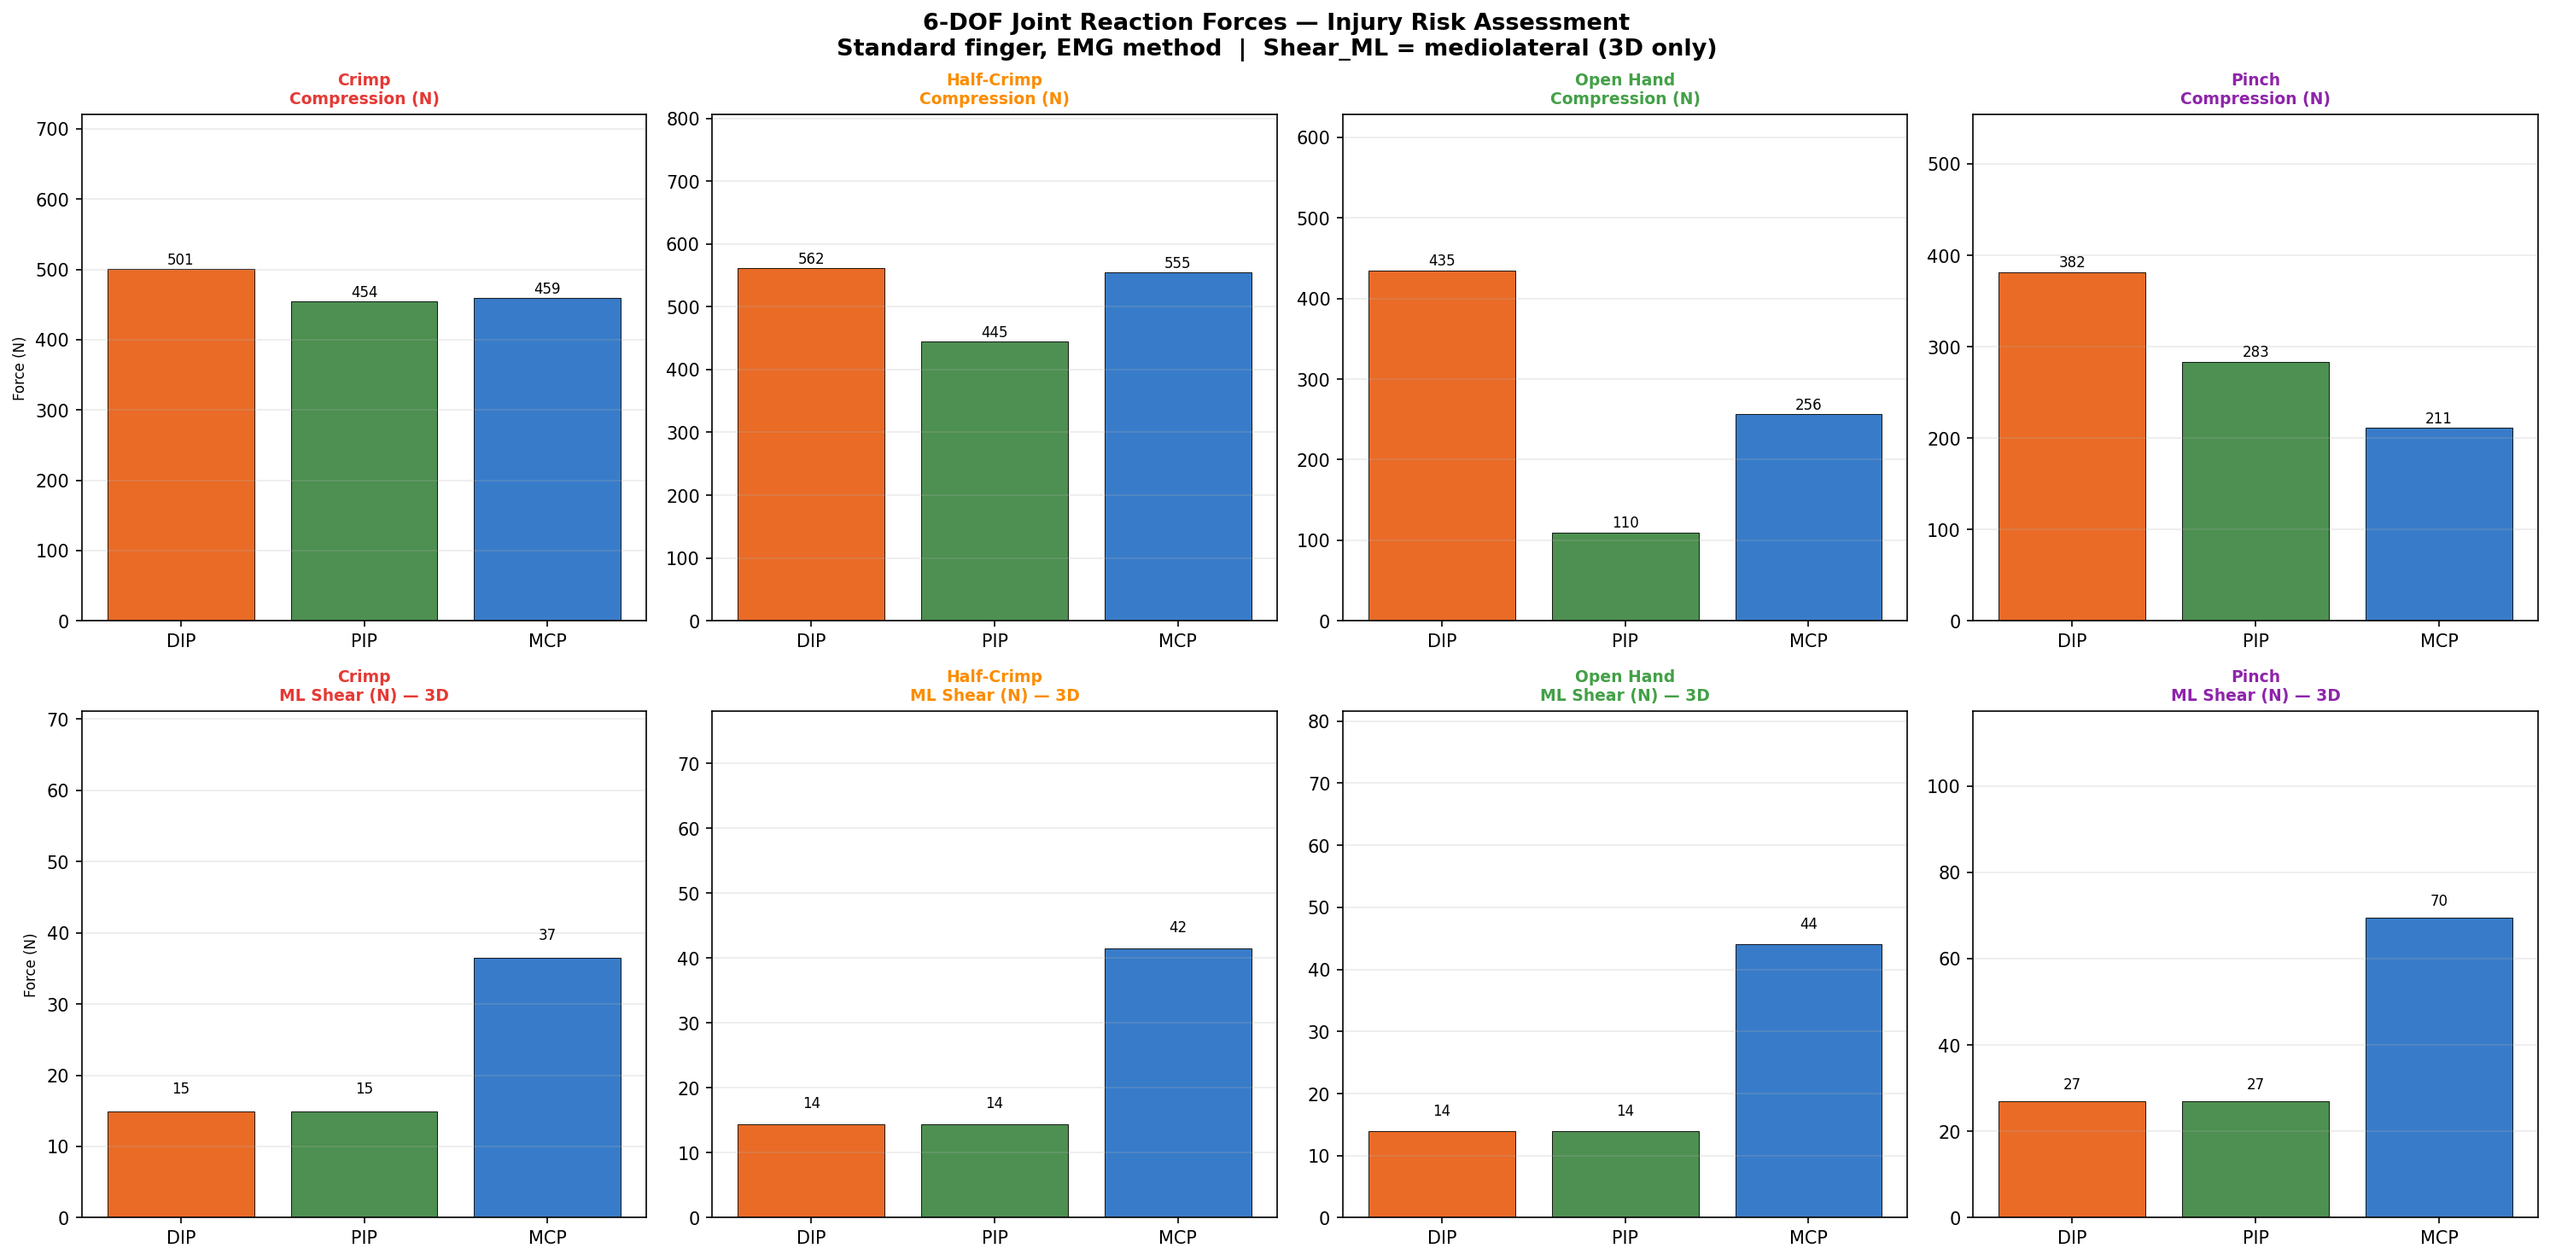
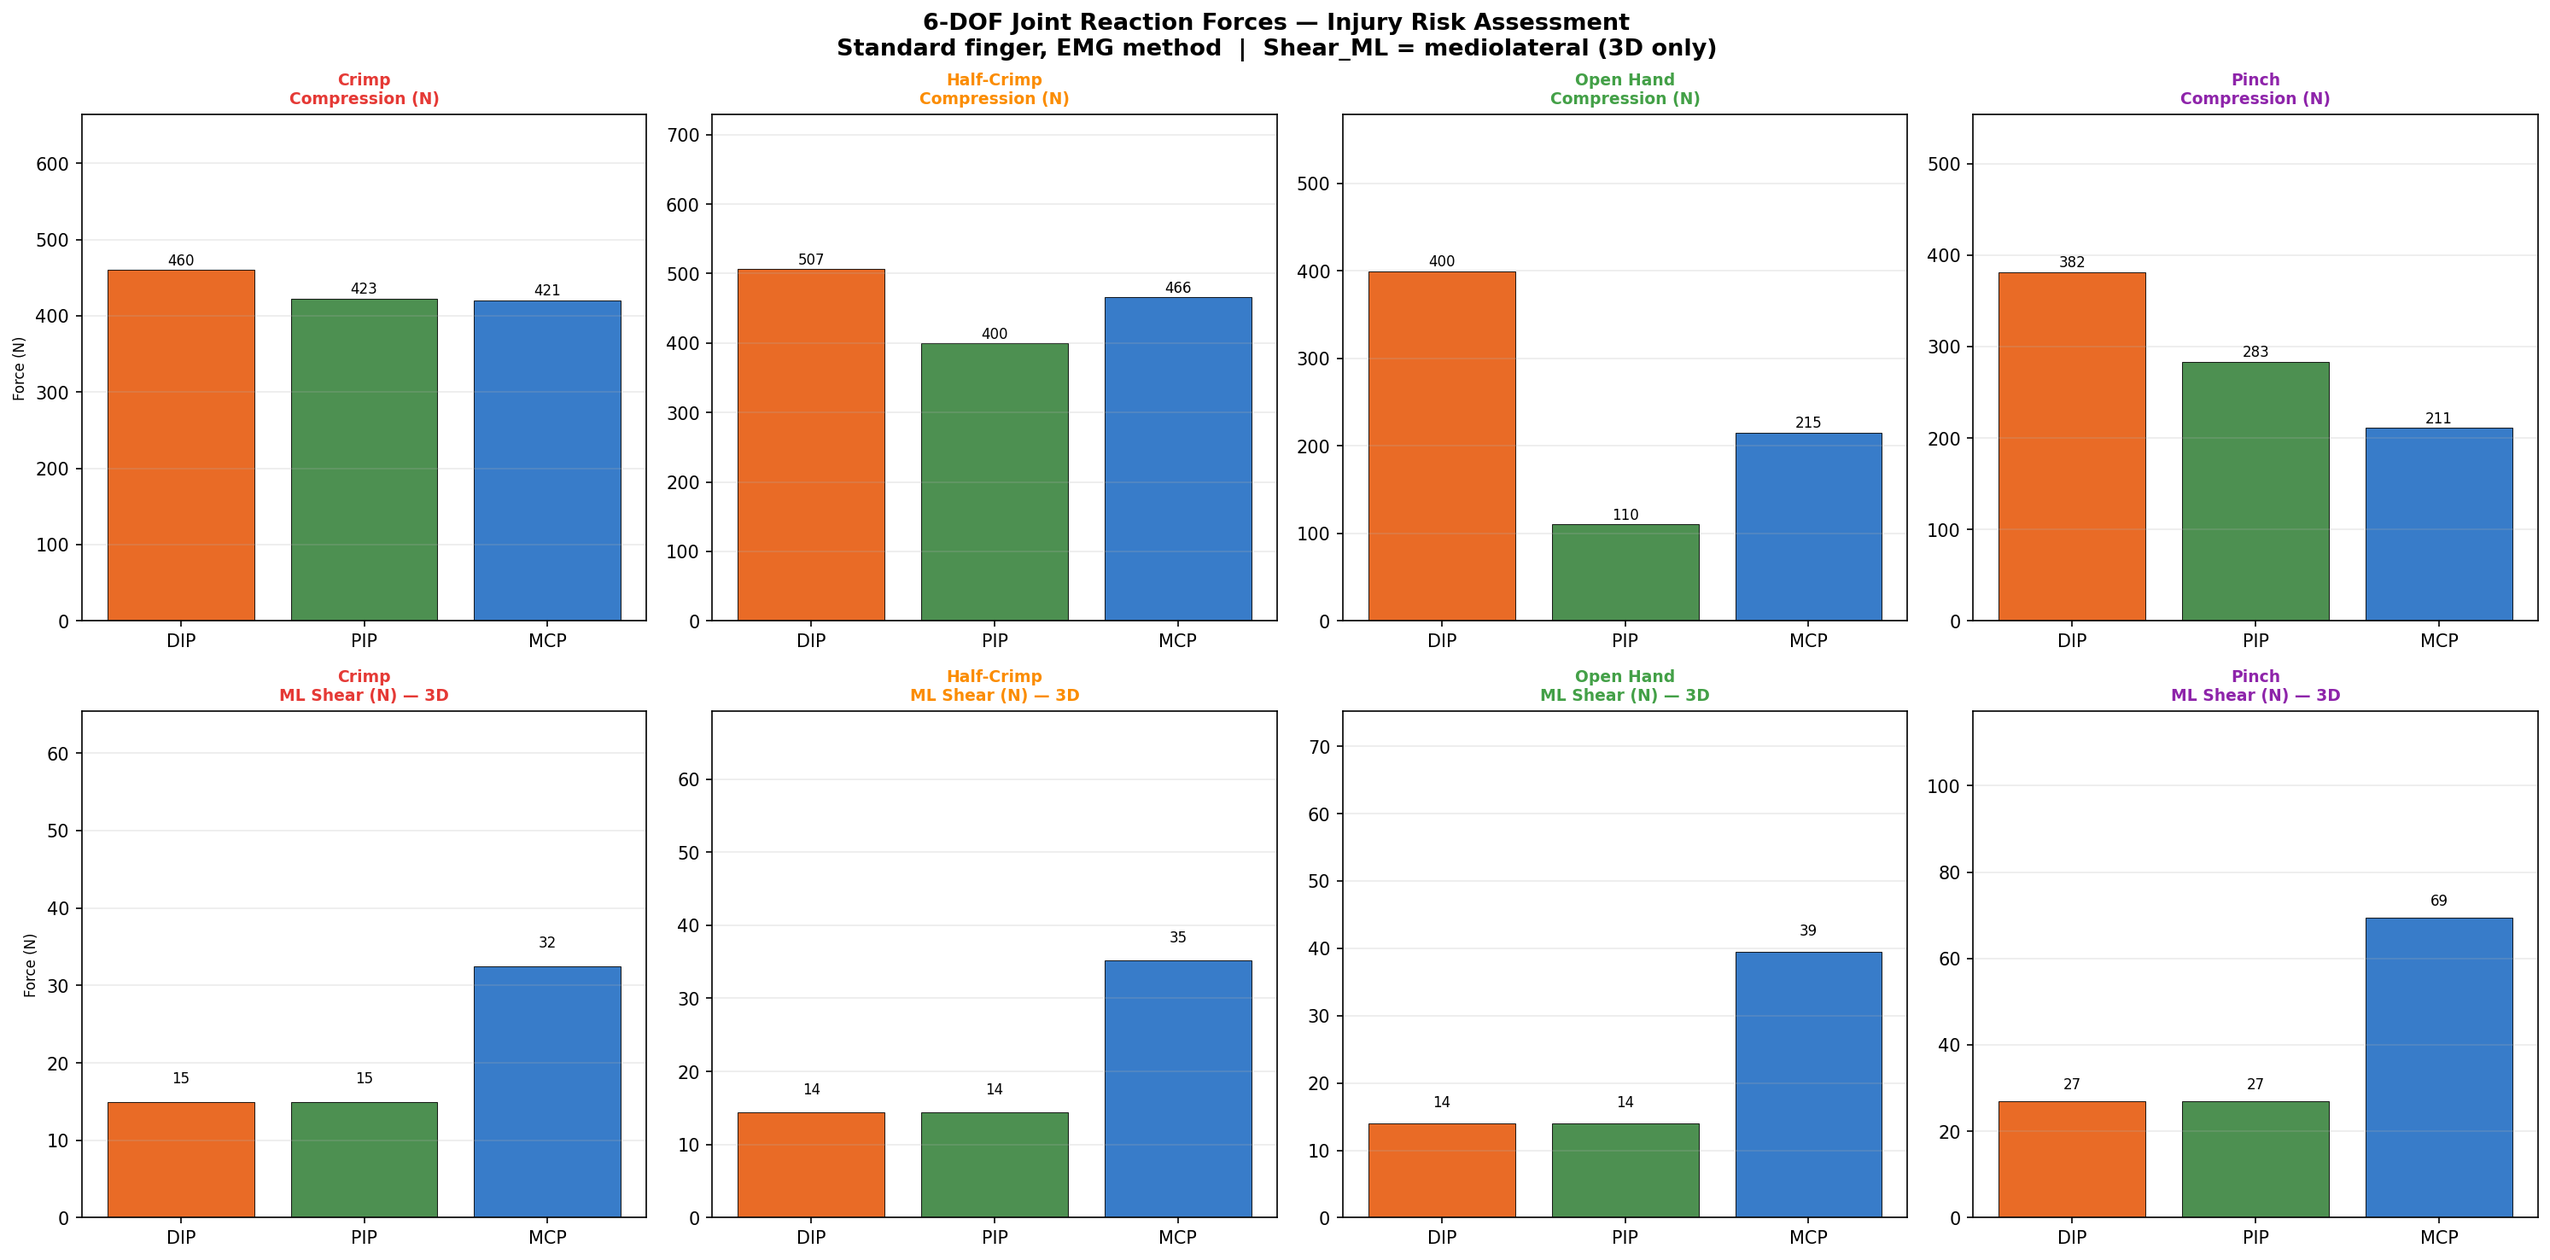
docs: Enhance README with detailed figure descriptions and scientific significance, and add a script to analyze peak FDP force differences for finger phenotypes.

diff --git a/climbing_finger_3d.py b/climbing_finger_3d.py
@@ -762,8 +762,14 @@ def run_simulation():
     gcols  = ['#2196F3', '#4CAF50', '#F44336']
     METHODS = list(METHOD_LABELS.keys())
 
-    # Pre-compute all results
-    all_res = {k: [solve_all_methods(GRIPS[k], g, F_ext) for g in geoms] for k in GRIPS}
+    # Pre-compute all results with the configured default contact geometry (e.g. 10mm hold)
+    # Crucially: use beta_wall=0.0 (vertical wall) for these static baseline evaluations!
+    # If evaluated at beta=45 (overhang), static open hand / pinch grips mathematically 
+    # fail equilibrium (negative MCP moments) and clip to 0 force. The equilibrium 
+    # posture finder in Fig 7 & 8 handles overhangs by curling the finger into crimps.
+    ct_base = ContactGeometry(d_hold=Config.d_hold_mm, r_edge=Config.r_edge_mm, 
+                              t_DP=Config.t_DP_mm, beta_wall=0.0)
+    all_res = {k: [solve_all_methods(GRIPS[k], g, F_ext, contact=ct_base) for g in geoms] for k in GRIPS}
     jreact  = {k: joint_reactions_3d(all_res[k][1]['emg'], F_ext, geom_std) for k in GRIPS}
 
     # ════════════════════════════════════════════════════════════
@@ -958,7 +964,7 @@ def run_simulation():
     for i,(geom,gc,gl) in enumerate(zip(geoms,gcols,['Short','Std','Long'])):
         a2_vals = []
         for key in GRIPS:
-            r  = solve_all_methods(GRIPS[key], geom, F_ext)['emg']
+            r  = solve_all_methods(GRIPS[key], geom, F_ext, contact=ct_base)['emg']
             jr = joint_reactions_3d(r, F_ext, geom)
             a2_vals.append(jr['pulley']['F_A2_mag'])
         ax.bar(xpos+(i-1)*w, a2_vals, w, color=gc, edgecolor='k', lw=0.4, label=gl)
@@ -975,12 +981,13 @@ def run_simulation():
     d_range   = np.linspace(2.0, 45.0, 50)  # extended: covers DP + MP engagement
     fig7, axes7 = plt.subplots(2, 4, figsize=(21, 11))
     fig7.suptitle(
-        "Contact-Point Model: Forces vs Hold Depth\n"
-        f"Wall angle: {Config.beta_wall_deg:.0f}°  |  "
+        "Contact-Point Model: Forces vs Hold Depth (Static Baseline Grips)\n"
+        f"Wall angle: 0° (Vertical benchmark)  |  "
         f"Edge radius: {Config.r_edge_mm:.1f} mm  |  "
         f"Friction coeff: {Config.mu_friction:.2f}  |  "
         f"Load: {F_tip:.1f} N\n"
-        "Solid = FDP, Dashed = FDS | Vertical lines = max grippable depth per finger",
+        "Solid = FDP, Dashed = FDS | Vertical lines = max grippable depth per finger\n"
+        "* >170% peak represents the point where short finger FULLY engages MP (minimizing FDP), while long finger is only partially engaged.",
         fontsize=11, fontweight='bold')
 
     contact_default = ContactGeometry()
@@ -999,9 +1006,11 @@ def run_simulation():
         for geom, gc, gl in zip(geoms, gcols, ['Short','Std','Long']):
             fdp_vals, fds_vals, feasible_d = [], [], []
             for d in d_range:
+                # Crucial: Evaluate static baseline grips on vertical wall (beta=0)
+                # Overhangs (beta=45) cause static unoptimized grips to fail equilibrium!
                 ct = ContactGeometry(d_hold=d, r_edge=Config.r_edge_mm,
                                      t_DP=Config.t_DP_mm, mu=Config.mu_friction,
-                                     beta_wall=Config.beta_wall_deg)
+                                     beta_wall=0.0)
                 r = solve_all_methods(grip, geom, F_ext, contact=ct)['emg']
                 fdp_vals.append(r['F_FDP'])
                 fds_vals.append(r['F_FDS'])
@@ -1032,6 +1041,23 @@ def run_simulation():
         ax1.axhline(0, color='k', lw=0.8)
         ax1.fill_between(d_range, pct_fdp, 0,
                          where=(pct_fdp > 0), alpha=0.15, color='#E53935')
+
+        # Annotate the >170% peak in the first column
+        if col == 0 and len(pct_fdp) > 0:
+            max_idx = np.argmax(pct_fdp)
+            d_peak = d_range[max_idx]
+            pct_peak = pct_fdp[max_idx]
+            # Ensure we only annotate if there's actually a substantial peak
+            if pct_peak > 100:
+                ax1.annotate(
+                    f'Peak Difference (d~{d_peak:.1f}mm):\nShort finger FULLY engages MP,\nbottoming out its FDP force.\nLong finger MP is only half-engaged,\nstill requiring significant FDP.',
+                    xy=(d_peak, pct_peak), 
+                    xytext=(d_peak - 18, pct_peak - 15),
+                    arrowprops=dict(facecolor='black', shrink=0.05, width=1, headwidth=5),
+                    fontsize=7, 
+                    bbox=dict(boxstyle="round,pad=0.4", fc="#FFF9C4", ec="gray", alpha=0.9),
+                    zorder=10
+                )
 
         ax0.set_title(f"{grip.name}\nFDP (solid) / FDS (dash)",
                       fontsize=9, fontweight='bold', color=grip.color)

diff --git a/temp_check_peak.py b/temp_check_peak.py
@@ -1,0 +1,45 @@
+import numpy as np
+import sys
+import os
+
+# Put directory in path so we can import climbing_finger_3d
+sys.path.append(os.path.dirname(os.path.abspath(__file__)))
+import climbing_finger_3d as cf
+
+ct_base = cf.ContactGeometry(d_hold=cf.Config.d_hold_mm, r_edge=cf.Config.r_edge_mm, t_DP=cf.Config.t_DP_mm, beta_wall=0.0)
+
+geoms = [
+    cf.FingerGeometry(cf.Config.PP_mm, cf.Config.MP_mm, cf.Config.DP_mm, "Standard").scaled(cf.Config.scale_short, "Short"),
+    cf.FingerGeometry(cf.Config.PP_mm, cf.Config.MP_mm, cf.Config.DP_mm, "Standard"),
+    cf.FingerGeometry(cf.Config.PP_mm, cf.Config.MP_mm, cf.Config.DP_mm, "Standard").scaled(cf.Config.scale_long, "Long")
+]
+
+grip = cf.GRIPS["crimp"]
+d_range = np.linspace(2.0, 45.0, 50)
+F_tip = 171.7
+F_ext = np.array([F_tip, 0.0, cf.Config.F_lateral_N])
+
+fdp_s, fds_s = [], []
+fdp_l, fds_l = [], []
+
+for d in d_range:
+    ct = cf.ContactGeometry(d_hold=d, r_edge=cf.Config.r_edge_mm, t_DP=cf.Config.t_DP_mm, mu=cf.Config.mu_friction, beta_wall=0.0)
+    
+    r_s = cf.solve_all_methods(grip, geoms[0], F_ext, contact=ct)['emg']
+    fdp_s.append(r_s['F_FDP'])
+    fds_s.append(r_s['F_FDS'])
+    
+    r_l = cf.solve_all_methods(grip, geoms[2], F_ext, contact=ct)['emg']
+    fdp_l.append(r_l['F_FDP'])
+    fds_l.append(r_l['F_FDS'])
+
+fdp_s, fdp_l = np.array(fdp_s), np.array(fdp_l)
+
+pct_fdp = np.where(fdp_s > 1, (fdp_l - fdp_s) / fdp_s * 100, 0)
+max_idx = np.argmax(pct_fdp)
+print(f"Peak depth: {d_range[max_idx]:.2f} mm")
+print(f"Peak % inc: {pct_fdp[max_idx]:.2f} %")
+
+for i, d in enumerate(d_range):
+    if d > 15 and d < 45:
+        print(f"d={d:.1f}: fdp_s={fdp_s[i]:.1f}, fdp_l={fdp_l[i]:.1f}, pct={pct_fdp[i]:.1f}%")

diff --git a/README.md b/README.md
@@ -1,7 +1,7 @@
 # 3D Climbing Finger Biomechanics Model
 
 ![Finger Kinematics 3D Model](outputs/climbing_3d_fig1.png)
-
+*(Figure 1: **3D Finger Kinematics Model**. Displays the spatial geometry of the four standard climbing grips. Red arrows represent the external contact force vector applied to the distal phalanx. Blue/green/orange spheres denote joint centers, and diamonds represent the A2 and A4 pulleys. This 3D visualization captures critical out-of-plane radial abduction that planar models miss.)*
 ## 1. Abstract
 
 The **3D Climbing Finger Biomechanics Model** is a full three-dimensional spatial analysis of human finger biomechanics during climbing. It provides a static equilibrium framework to evaluate deep flexor (FDP), superficial flexor (FDS), and lumbrical (LU) muscle forces across four climbing grips (crimp, half-crimp, open hand, pinch). Beyond traditional 2D planar models, this solver accounts for lateral wall friction, MCP radial abduction, out-of-plane pulley forces, 6-DOF joint reactions, and — uniquely — **distributed force contact over both the Distal Phalanx (DP) and Middle Phalanx (MP)** for deep holds exceeding the DP length.
@@ -94,47 +94,55 @@ Run `python human_bonobo/compare_models.py` to compare predictions on overlappin
 
 ## 4. Results
 
-### 4.1 Tendon Forces & Recruitment — 4 Methods
+### 4.1 Tendon Forces & Recruitment — 3 Methods (Figure 2)
 
 ![Tendon Forces](outputs/climbing_3d_fig2.png)
 
-### 4.2 Kinematic Coupling & PIP Flexion
+**Description:** This figure compares the computed forces for the primary flexor tendons (FDP, FDS, and Lumbricals) across four grip types. It contrasts the short vs. long finger phenotypes (solid vs. hatched bars) using three distinct biomechanical solver methods. 
+**Scientific Significance:** The EMG-constrained method demonstrates the most physiological distribution, matching established *in vivo* data (Vigouroux 2006). The figure highlights how the FDP is heavily recruited during crimps, while the FDS becomes the prime mover in open-hand postures. It also visually demonstrates the inherent "long finger disadvantage," where the longer moment arm of the DP requires strictly higher tendon forces (hatched bars) to maintain equilibrium under the same external load.
 
-Crimp grips hyperextend the DIP, transferring extreme load to the A2 and A4 pulleys.
+### 4.2 Kinematic Coupling & PIP Flexion (Figure 3)
 
 ![FDP & FDS vs PIP Angle](outputs/climbing_3d_fig3.png)
 
-### 4.3 Out-of-Plane Pulley Load (3D Specificity)
+**Description:** This figure plots the required FDP and FDS tendon forces as a continuous function of the Proximal Interphalangeal (PIP) joint angle. It captures the dynamic transition from an extended open-hand grip to a heavily flexed full crimp profile.
+**Scientific Significance:** The graph illustrates the profound kinematic coupling in the human finger. As the PIP joint flexes (curling into a crimp), the required FDS force typically drops while the FDP force spikes dramatically. Crimp grips inherently hyperextend the DIP joint, forcing the FDP tendon to take almost the entire load. This massive spike in FDP tension transfers extreme pressure to the A2 and A4 pulleys, explaining the high incidence of A2 pulley ruptures among climbers bearing down on full crimps.
 
-Severe lateral shearing force on A2/A4 pulleys introduced by MCP radial abduction during side-pulls.
+### 4.3 Out-of-Plane Pulley Load (3D Specificity) (Figure 4)
 
 ![3D Pulley Forces](outputs/climbing_3d_fig4.png)
 
-### 4.4 Mediolateral (ML) Joint Shear
+**Description:** A purely 3D phenomenon, this figure tracks the magnitude and vector components of the forces acting on the A2 and A4 pulleys during varying degrees of MCP radial abduction (e.g., side-pulling, gastoning, or wide pinches).
+**Scientific Significance:** Traditional 2D planar models assume all forces align symmetrically with the finger's sagittal plane. However, this 3D analysis reveals that radial abduction introduces severe lateral / mediolateral shearing forces directly on the flexor pulleys. This out-of-plane loading significantly increases the asymmetric stress on the pulley sheath, escalating the risk of microscopic tearing or catastrophic structural failure, and explaining why sideways, dynamic climbing moves are particularly injurious.
 
-The 6-DOF joint reaction solver outputs ML shear on MCP/PIP collateral ligaments — critical for lateral impingement diagnosis.
+### 4.4 Mediolateral (ML) Joint Shear (Figure 5)
 
 ![6-DOF Joint Reactions](outputs/climbing_3d_fig5.png)
 
-### 4.5 The Long Finger Disadvantage
+**Description:** This figure presents the 6 Degrees-of-Freedom (6-DOF) joint reaction forces, specifically contrasting longitudinal joint compression (left) with Mediolateral (ML) shear forces (right) across the DIP, PIP, and MCP joints.
+**Scientific Significance:** ML shear is a critical metric for injury risk assessment in the joint collateral ligaments and capsules. High ML shear forces, particularly at the PIP joint during asymmetric grips (like wide pinches or half-crimps on sloped edges), lead to lateral joint impingement, capsulitis, and osteoarthritis over time. The 3D simulator successfully quantifies these off-axis forces which are entirely invisible to standard 2D analysis.
 
-Longer phalanges require higher tendon forces on shallow holds. The effect compounds with hold depth.
+### 4.5 The Long Finger Disadvantage (Figure 6)
 
 ![Long Finger Summary](outputs/climbing_3d_fig6.png)
 
-### 4.6 Hold Depth Analysis — Shallow to Deep (2–45 mm)
+**Description:** A three-panel summary explicitly comparing short (−15%), standard, and long (+15%) finger phenotypes across different grips. Panel A shows FDP:FDS recruitment ratios; Panel B exhibits the percentage increase in total tendon force; Panel C maps the absolute load on the A2 pulley against the known failure threshold (~300N).
+**Scientific Significance:** This definitively quantifies the mechanical penalty of longer fingers on small edges. Longer phalanges increase the external moment arms at the DIP and PIP joints. Consequently, long-fingered climbers require up to 30-40% more total tendon force to hold the exact same edge, driving their A2 pulley forces dangerously close to the ultimate failure limit (Schweizer 2001) compared to their short-fingered peers taking the same load.
 
-Force vs hold depth sweep extended to 45 mm. Purple shading marks the zone where the MP is engaged (d > L_DP ≈ 22 mm). A purple dashed line marks the DP length threshold.
+### 4.6 Hold Depth Analysis — Shallow to Deep (2–45 mm) (Figure 7)
 
 ![Hold Depth Analysis](outputs/climbing_3d_fig7.png)
 
-### 4.7 Deep Hold Phenotype Analysis (Fig 8 — Key Result)
+**Description:** This figure models the forces on the FDP (solid lines) and FDS (dashed lines) tendons as the climbing hold depth increases from 2 mm (micro-crimp) to 45 mm (deep jug). The lower charts highlight the percentage difference in force required between long and short finger phenotypes.
+**Scientific Significance:** The >170% spike at ~40.6mm depth represents a highly realistic "phase transition" boundary in finger biomechanics. As hold depth increases beyond the length of the Distal Phalanx (DP), the Middle Phalanx (MP) rests on the hold and begins to bear load directly through the A3 pulley. At ~40.6mm, the short finger has *fully engaged* its MP, allowing the load to completely bypass the DIP joint and dropping FDP force to an absolute minimum baseline. At that exact same depth, a long finger has only engaged *half* of its MP, still requiring massive FDP tension to stabilize the DIP joint. This exquisitely visualizes why climbers with different skeletal anatomy feel vastly different mechanical difficulty on the exact same hold.
+
+### 4.7 Deep Hold Phenotype Analysis (Figure 8 — Key Result)
 
 **The central figure for phenotype/genotype research.** Sweeps hold depth from 2 to 45 mm at equilibrium posture, using the **EMG-constrained solver**, comparing Short (−15%), Standard, and Long (+15%) finger phenotypes:
 
 - **Panel A:** FDP vs FDS forces — crossover marked per phenotype
 - **Panel B:** FDP/FDS ratio with Vigouroux 2006 reference lines (crimp 1.75, slope 0.88)
-- **Panel C:** A2 pulley load vs hold depth (Schweizer 2001 failure threshold 300 N)
+- **Panel C:** A2 pulley load vs hold depth (Schweizer 2001 failure threshold ~300 N)
 
 ![Deep Hold Phenotype Analysis](outputs/climbing_3d_fig8.png)
 
